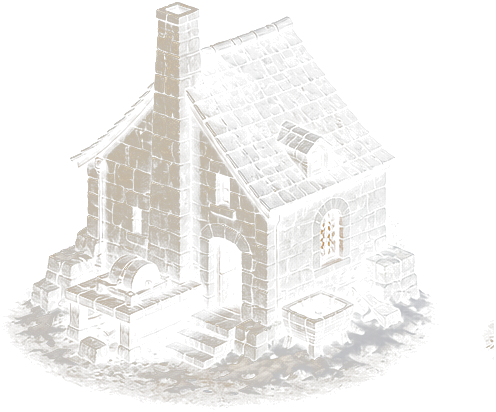
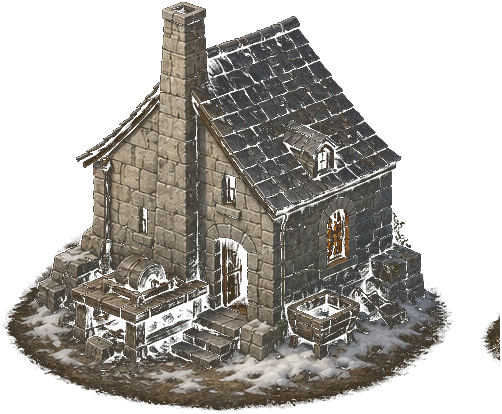
prove exact alternative focal rendering

diff --git a/packages/world/src/__tests__/regional-world-tile-provider.test.ts b/packages/world/src/__tests__/regional-world-tile-provider.test.ts
@@ -1642,6 +1642,83 @@ describe('RegionalWorldTileProvider', () => {
     });
   });
 
+  it('admits distinct canonical alternatives only through the exact alternative profile', () => {
+    const continuousRoute = (x: number, y: number): RegionalRouteSample => ({
+      ...routeSample(x, y),
+      directionX: 1,
+      directionY: 0,
+    });
+    const focal = (
+      id: string,
+      side: -1 | 1,
+      canonicalAlternative = false,
+    ): RegionalParcelComponentAsset => ({
+      id,
+      families: ['canal-town'],
+      role: 'mass',
+      visualGroup: `${canonicalAlternative ? 'alternative' : 'ordinary'}:${side}`,
+      compositionRole: 'focal',
+      streetPairRole: canonicalAlternative ? 'canonical-alternative' : undefined,
+      frontageAxis: 'east-west',
+      compositionSide: side,
+      frontageStations: [0],
+      sprite: sprite(COLOURS['canal-town']),
+      collision: [[0, 0]],
+    });
+    const alternatives = [
+      focal('parcel:canal-town:alternative-negative', -1, true),
+      focal('parcel:canal-town:alternative-positive', 1, true),
+    ];
+    const components = [
+      focal('parcel:canal-town:ordinary-negative-a', -1),
+      focal('parcel:canal-town:ordinary-negative-b', -1),
+      focal('parcel:canal-town:ordinary-positive-a', 1),
+      focal('parcel:canal-town:ordinary-positive-b', 1),
+      ...alternatives,
+    ];
+    const makeCandidate = (
+      blockSize: number,
+      profile: RegionalAmbientPlaceFabricProfile,
+    ) => makeWorld(
+      blockSize, 64, continuousRoute, () => biomeSample('canal-town'),
+      false, undefined, false, false, false, 'east-west', components, [],
+      'cluster-field-blue-noise', 'hierarchical-place-field', profile, 'route-frontage', false,
+    );
+    const strict = makeCandidate(32, 'shared-common-street-overlay-exact');
+    const candidate = makeCandidate(
+      32,
+      'shared-common-street-overlay-exact-alternatives',
+    );
+    const replay = makeCandidate(
+      47,
+      'shared-common-street-overlay-exact-alternatives',
+    );
+    const bounds = [-96, -72, 128, 72] as const;
+    const isStreet = (placement: { parcelPathId?: string }) => (
+      placement.parcelPathId?.endsWith(':street-overlay') ?? false
+    );
+    const alternativeIds = new Set(alternatives.map((asset) => asset.id));
+    expect(strict.getAmbientPlacementsInBounds(...bounds).filter((placement) => (
+      isStreet(placement) && alternativeIds.has(placement.assetId)
+    ))).toHaveLength(0);
+    const placements = candidate.getAmbientPlacementsInBounds(...bounds);
+    expect(placements).toEqual(replay.getAmbientPlacementsInBounds(...bounds));
+    const street = placements.filter(isStreet);
+    expect(street.length).toBeGreaterThan(0);
+    expect(street.some((placement) => alternativeIds.has(placement.assetId))).toBe(true);
+    const streetBySite = new Map<string, typeof street>();
+    for (const placement of street) {
+      const site = `${placement.siteX},${placement.siteY}`;
+      streetBySite.set(site, [...(streetBySite.get(site) ?? []), placement]);
+    }
+    expect([...streetBySite.values()].every((pair) => (
+      pair.length === 2 && new Set(pair.map((placement) => placement.assetId)).size === 2
+    ))).toBe(true);
+    expect(candidate.getRegionalStats()).toMatchObject({
+      ambientPlaceFabricProfile: 'shared-common-street-overlay-exact-alternatives',
+    });
+  });
+
   it('places deterministic civic details only on route-safe landmark shoulders', () => {
     const civicRoute = (x: number, y: number): RegionalRouteSample => {
       const base = routeSample(x, y);

diff --git a/packages/world/src/tiles/regional-world-tile-provider.ts b/packages/world/src/tiles/regional-world-tile-provider.ts
@@ -369,7 +369,8 @@ export type RegionalAmbientPlaceFabricProfile =
   | 'internal-spine'
   | 'shared-common'
   | 'shared-common-street-overlay'
-  | 'shared-common-street-overlay-exact';
+  | 'shared-common-street-overlay-exact'
+  | 'shared-common-street-overlay-exact-alternatives';
 
 /** Whether a meso place remains an isolated wilderness composition or proves
  * a walkable connection to the regional route graph and authors frontage along
@@ -4619,8 +4620,7 @@ export class RegionalWorldTileProvider extends TileProvider {
       : [];
     const stable = Object.freeze([...districtPlacements, ...frontage]
       .map((placement) => Object.freeze({ ...placement })));
-    const exactComposition = this.ambientPlaceFabricProfile ===
-      'shared-common-street-overlay-exact';
+    const exactComposition = usesExactCompositionFabric(this.ambientPlaceFabricProfile);
     const fallbackRequired = new Set([
       placementIdentity(root),
       ...(access?.targetKey ? [access.targetKey] : []),
@@ -4668,6 +4668,7 @@ export class RegionalWorldTileProvider extends TileProvider {
         provisional,
         this.ambientPlaceProgramReservation(provisional),
         excludedVisualGroups,
+        usesCanonicalStreetPairAlternatives(this.ambientPlaceFabricProfile),
       );
       if (pair) {
         const pairPlacements = Object.freeze([
@@ -5423,8 +5424,7 @@ export class RegionalWorldTileProvider extends TileProvider {
     program: AmbientPlaceProgram,
     reserved: ReadonlySet<string>,
   ): Placement[] {
-    const excludedVisualGroups = this.ambientPlaceFabricProfile ===
-      'shared-common-street-overlay-exact'
+    const excludedVisualGroups = usesExactCompositionFabric(this.ambientPlaceFabricProfile)
       ? new Set(program.placements.map((placement) => assetVisualGroup(placement.asset)))
       : new Set<string>();
     return this.buildAmbientSharedStreetPairCandidate(
@@ -7801,7 +7801,18 @@ function usesSharedCommonFabric(profile: RegionalAmbientPlaceFabricProfile): boo
 
 function usesStreetOverlayFabric(profile: RegionalAmbientPlaceFabricProfile): boolean {
   return profile === 'shared-common-street-overlay' ||
-    profile === 'shared-common-street-overlay-exact';
+    usesExactCompositionFabric(profile);
+}
+
+function usesExactCompositionFabric(profile: RegionalAmbientPlaceFabricProfile): boolean {
+  return profile === 'shared-common-street-overlay-exact' ||
+    profile === 'shared-common-street-overlay-exact-alternatives';
+}
+
+function usesCanonicalStreetPairAlternatives(
+  profile: RegionalAmbientPlaceFabricProfile,
+): boolean {
+  return profile === 'shared-common-street-overlay-exact-alternatives';
 }
 
 /** Large unrotated blocks use their authored screen-space frontage rather than

diff --git a/NEXT-GOAL.md b/NEXT-GOAL.md
@@ -2379,6 +2379,34 @@ Completed foundations:
   33 frames, measure its four-pair stamping, then add a deterministic spatial
   repetition budget only if it preserves occupied frontage and every exact
   invariant;
+- V189 selects an **experimental, non-active** exact-alternative profile and
+  fixes the generated focal derivation before trusting it. Candidate A passed
+  declared geometry but enlarged crops exposed functionally invisible art:
+  the dark subjects had been matted toward roughly five-percent alpha by an
+  inappropriate 12..220 soft range. The same built-in Codex/ChatGPT
+  subscription boards are now deterministically re-derived with a measured
+  dark-key 8..32 matte plus fail-closed weighted/strong-alpha gates; all 12
+  assets reconcile to their updated manifest hashes. The final faithful
+  Candidate D matches all 33 immutable V186 legacy RGB hashes, preserves
+  candidate identity/anchor/disjoint-footprint/group invariants 33/33, changes
+  26/33 frames, and visibly replaces repeated generic huts with eight occupied
+  sites across four forest, three mountain, and one rural pair. Its 44
+  frame-visible street-member occurrences have zero missing cells and zero
+  protected-connector clips. It is **not promoted**: only three pair
+  vocabularies appear, the fixed sheets show obvious forest/mountain stamping,
+  and the broadened raster audit exposes 134 missing cells in older parent
+  members (130 clipped by protected connectors) so true whole-program
+  materialization passes only 19/33 candidate frames. Host load 11..24 on eight
+  CPUs makes timing inadmissible; production and physical Ghostty remain
+  untouched. Forty-five focused tests, both TypeScript builds, and the 138-file
+  regional runtime-pack build pass. Metrics SHA
[1 lines of base64/hex data omitted]
+  evidence lives in
+  `track-4-world-composition/regional-composition-exact-alternatives-v189/FINDINGS.md`.
+  Next, attribute every raster cell to its owning placement and remove parent
+  connector/overlay suppression by re-routing or refitting; only after full
+  program materialization passes should a district repetition budget and new
+  family/axis vocabularies be tested;
 - rejected wallpaper, dense-grid, over-sparse, solver-staircase, and regional
   root-ring experiments remain in the mounted research record; public gallery
   iterations 012–035 expose selected and rejected research candidates without
